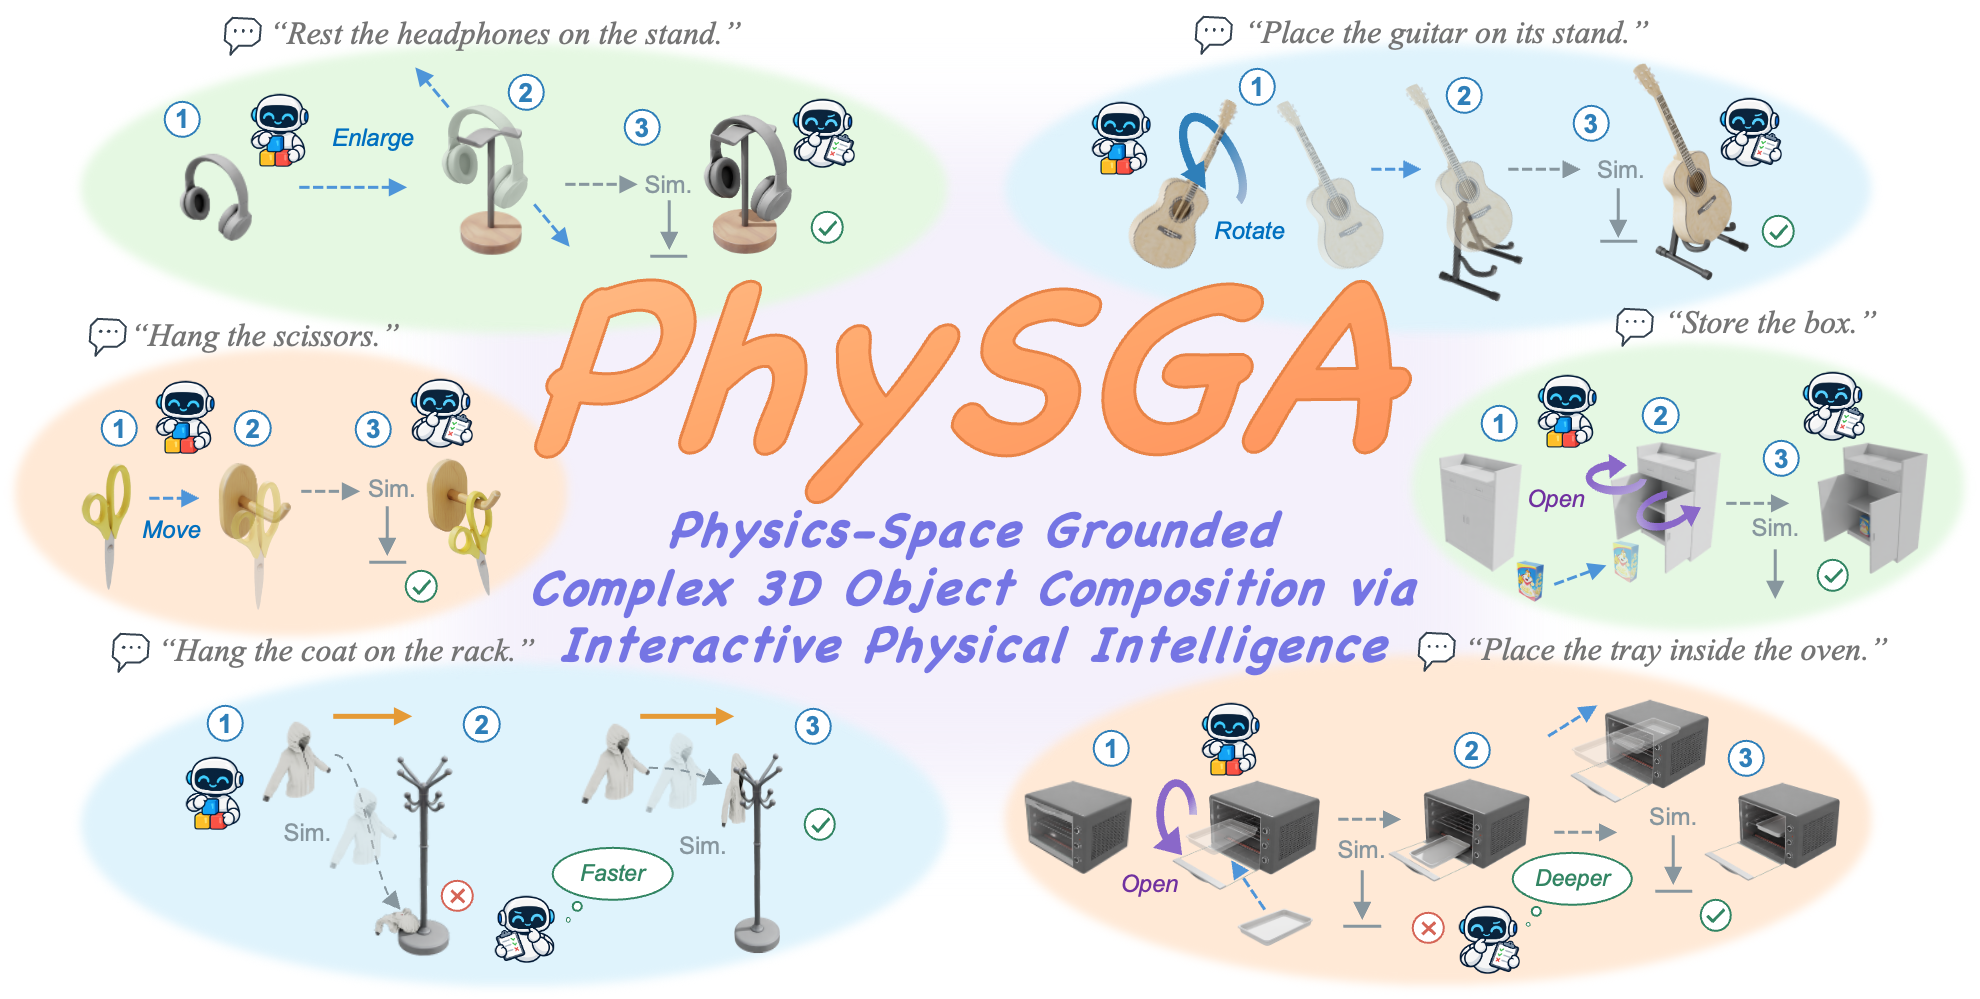
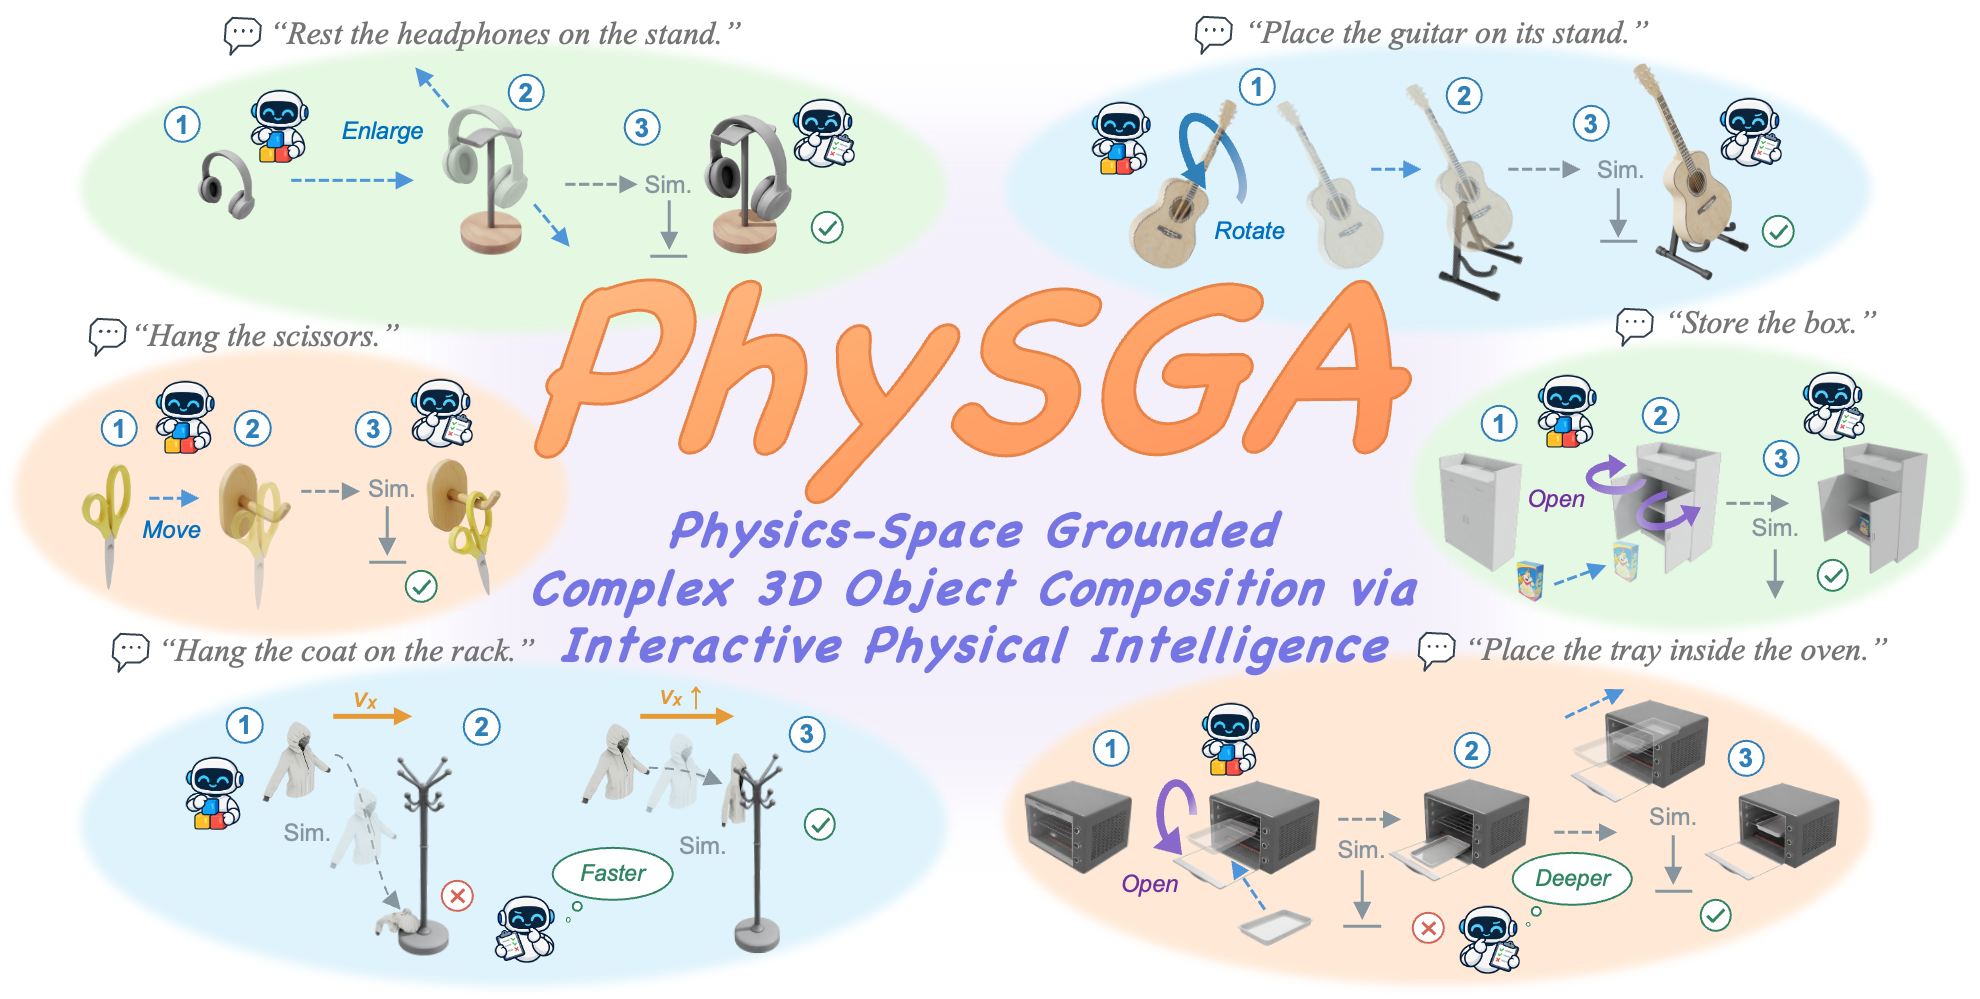
update

diff --git a/_sass/minimal-light-no-dark-mode.scss b/_sass/minimal-light-no-dark-mode.scss
@@ -74,21 +74,113 @@ body {
   align-self: start;
 }
 
-.social-icons a{
-  display:inline-block;
-  height:2.4rem;
-  width:2.4rem;
-  background-color:transparent;
-  color:#6D2077!important;
-  border-radius:100%;
-  text-align:center;
-  font-size:1.15rem;
-  line-height:2.5rem;
-  margin-right:1rem}
+.social-icons {
+  display: flex;
+  justify-content: center;
+  gap: 0.7rem;
+  margin-top: 1.15rem;
+}
 
-.social-icons a:last-child{margin-right:0}.social-icons a:hover{background-color:white;
-    color:#4F1758!important;
-    transform: scale(1.2)}
+.social-icons a {
+  display: inline-flex;
+  align-items: center;
+  justify-content: center;
+  width: 2.9rem;
+  height: 2.9rem;
+  box-sizing: border-box;
+  border: 1px solid rgba(109, 32, 119, 0.26);
+  border-radius: 50%;
+  background: rgba(109, 32, 119, 0.06);
+  color: #6D2077 !important;
+  font-size: 1.38rem;
+  line-height: 1;
+  transition: background-color 0.18s ease, color 0.18s ease, transform 0.18s ease;
+}
+
+.social-icons a:hover {
+  background: #6D2077;
+  color: #fff !important;
+  transform: translateY(-2px);
+}
+
+.profile-name {
+  display: flex;
+  justify-content: center;
+  align-items: baseline;
+  gap: 0.3rem;
+  margin: 0 0 0.8rem;
+  font-size: 27px;
+  white-space: nowrap;
+}
+
+.profile-name-divider {
+  color: #aaa;
+  font-weight: 400;
+}
+
+.profile-name-zh {
+  font-size: 0.9em;
+}
+
+.profile-role {
+  color: #333;
+  font-size: 1.02rem;
+  font-weight: 600;
+  line-height: 1.3;
+}
+
+.profile-affiliation {
+  margin-top: 0.4rem;
+  line-height: 1.35;
+}
+
+.profile-affiliation a {
+  display: block;
+  color: #595959;
+}
+
+.profile-affiliation a:hover {
+  color: #6D2077;
+}
+
+.profile-location,
+.profile-email {
+  color: #666;
+  font-size: 0.88rem;
+  line-height: 1.35;
+}
+
+.profile-location {
+  margin-top: 0.45rem;
+}
+
+.profile-email {
+  margin-top: 0.75rem;
+  font-family: "Ubuntu Mono", monospace;
+}
+
+.profile-location i,
+.profile-email i {
+  width: 1rem;
+  color: #6D2077;
+}
+
+.profile-divider {
+  width: 72%;
+  height: 1px;
+  margin: 1rem auto 0.9rem;
+  background: #e1d8e3;
+}
+
+.profile-focus {
+  color: #444;
+  font-size: 0.94rem;
+  line-height: 1.4;
+}
+
+.profile-focus span {
+  display: block;
+}
     /*
     .social-icons a:after {
         content: '';
@@ -241,8 +333,8 @@ papertitle {
 
       .image.avatar img {
         border-radius: 100%;
-        width: 150px;
-        padding: 12px;
+        width: 170px;
+        padding: 10px;
         // border: 1px solid #ddd;
         // padding: 3px;
         // box-shadow: 0 -1px 5px 1px rgba(200, 200, 200, 0.3);
@@ -310,7 +402,7 @@ a:hover small {
 }
 
 .wrapper {
-  width:1100px;
+  width:1200px;
   margin:0 auto;
 }
 
@@ -360,10 +452,10 @@ img {
 }
 
 header {
-  width:180px;
+  width:260px;
   float:left;
   position:fixed;
-  left:calc(50% - 550px);
+  left:calc(50% - 600px);
   -webkit-font-smoothing:subpixel-antialiased;
   padding-top:5.5em;
   text-align:center
@@ -450,16 +542,16 @@ hr {
 }
 
 footer {
-  width:180px;
+  width:260px;
   float:left;
   position:fixed;
-  left:calc(50% - 550px);
+  left:calc(50% - 600px);
   bottom:30px;
   -webkit-font-smoothing:subpixel-antialiased;
   text-align:center;
 }
 
-@media print, screen and (max-width: 1100px) {
+@media print, screen and (max-width: 1200px) {
 
   .pub-row {
     display: flex;
@@ -515,7 +607,7 @@ footer {
   
 }
 
-@media print, screen and (max-width: 1100px) {
+@media print, screen and (max-width: 1200px) {
   body {
     word-wrap:break-word;
     padding:15px;
@@ -540,6 +632,18 @@ footer {
 }
 
 @media print, screen and (max-width: 480px) {
+
+  .profile-name {
+    font-size: 25px;
+    white-space: normal;
+    flex-wrap: wrap;
+  }
+
+  .social-icons a {
+    width: 2.75rem;
+    height: 2.75rem;
+    font-size: 1.3rem;
+  }
 
   .pub-row {
     display: block;
@@ -572,8 +676,8 @@ footer {
 
   .image.avatar img {
       border-radius: 100%;
-      width: 112px;
-      padding:12px;
+      width: 124px;
+      padding:10px;
   }
   #head1o2 {
     visibility: hidden;

diff --git a/_layouts/homepage.html b/_layouts/homepage.html
@@ -44,54 +44,69 @@
         <a class="image avatar"><img src="{{ site.avatar }}" alt="avatar" /></a>
         {% endif %}
 
-        <h1>{{ site.title }}</h1>
+        <h1 class="profile-name">
+          <span>{{ site.title }}</span>
+          {% if site.name_zh %}
+          <span class="profile-name-divider" aria-hidden="true">|</span>
+          <span class="profile-name-zh">{{ site.name_zh }}</span>
+          {% endif %}
+        </h1>
 
         {% if site.position %}
-        <position style="font-size:1.10rem;">{{ site.position }}</position>
-        <br>
-        {% endif %}
-        {% if site.affiliation %}
-        <a href="{{ site.affiliation_link }}" rel="noopener"><autocolor>{{ site.affiliation }}</autocolor></a>
-        <br>
-        {% endif %}
-        {% if site.email %}
-        <email>{{ site.email }}</email>
+        <div class="profile-role">{{ site.position }}</div>
         {% endif %}
 
-        <br>
-        <br>
+        <div class="profile-affiliation">
+          {% if site.department %}
+          <a href="{{ site.department_link }}" target="_blank" rel="noopener">{{ site.department }}</a>
+          {% endif %}
+          {% if site.affiliation %}
+          <a href="{{ site.affiliation_link }}" target="_blank" rel="noopener">{{ site.affiliation }}</a>
+          {% endif %}
+        </div>
+
+        {% if site.location %}
+        <div class="profile-location"><i class="fas fa-location-dot" aria-hidden="true"></i> {{ site.location }}</div>
+        {% endif %}
+
+        {% if site.research_focus %}
+        <div class="profile-divider" aria-hidden="true"></div>
+        <div class="profile-focus">
+          {% for focus in site.research_focus %}
+          <span>{{ focus }}</span>
+          {% endfor %}
+        </div>
+        {% endif %}
+
+        {% if site.email %}
+        <div class="profile-email"><i class="fas fa-envelope" aria-hidden="true"></i> {{ site.email }}</div>
+        {% endif %}
+
         <div class="social-icons">
         {% if site.google_scholar %}
-        <a style="margin: 0 5px 0 0" href="{{ site.google_scholar }}">
-          <i class="ai ai-google-scholar" style="font-size:1.2rem"></i>
+        <a href="{{ site.google_scholar }}" target="_blank" rel="noopener" aria-label="Google Scholar" title="Google Scholar">
+          <i class="ai ai-google-scholar" aria-hidden="true"></i>
         </a>  
         {% endif %}
 
         {% if site.cv_link %}
-        <a style="margin: 0 5px 0 0" href="{{ site.cv_link }}">
-          <i class="ai ai-cv" style="font-size:1.3rem;"></i>
+        <a href="{{ site.cv_link }}" target="_blank" rel="noopener" aria-label="Curriculum Vitae" title="Curriculum Vitae">
+          <i class="ai ai-cv" aria-hidden="true"></i>
         </a>
         {% endif %}
 
         {% if site.github_link %}
-        <a style="margin: 0 5px 0 0" href="{{ site.github_link }}">
-          <i class="fab fa-github"></i>
+        <a href="{{ site.github_link }}" target="_blank" rel="noopener" aria-label="GitHub" title="GitHub">
+          <i class="fab fa-github" aria-hidden="true"></i>
         </a>
         {% endif %}
 
         {% if site.linkedin %}
-        <a style="margin: 0 5px 0 0" href="{{ site.linkedin }}">
-          <i class="fab fa-linkedin"></i>
-        </a>
-        {% endif %}
-
-        {% if site.twitter %}
-        <a style="margin: 0 0 0 0" href="{{ site.twitter }}">
-          <i class="fab fa-x-twitter"></i>
+        <a href="{{ site.linkedin }}" target="_blank" rel="noopener" aria-label="LinkedIn" title="LinkedIn">
+          <i class="fab fa-linkedin-in" aria-hidden="true"></i>
         </a>
         {% endif %}
         </div>
-        <br>
 
       </header>
       <section>
